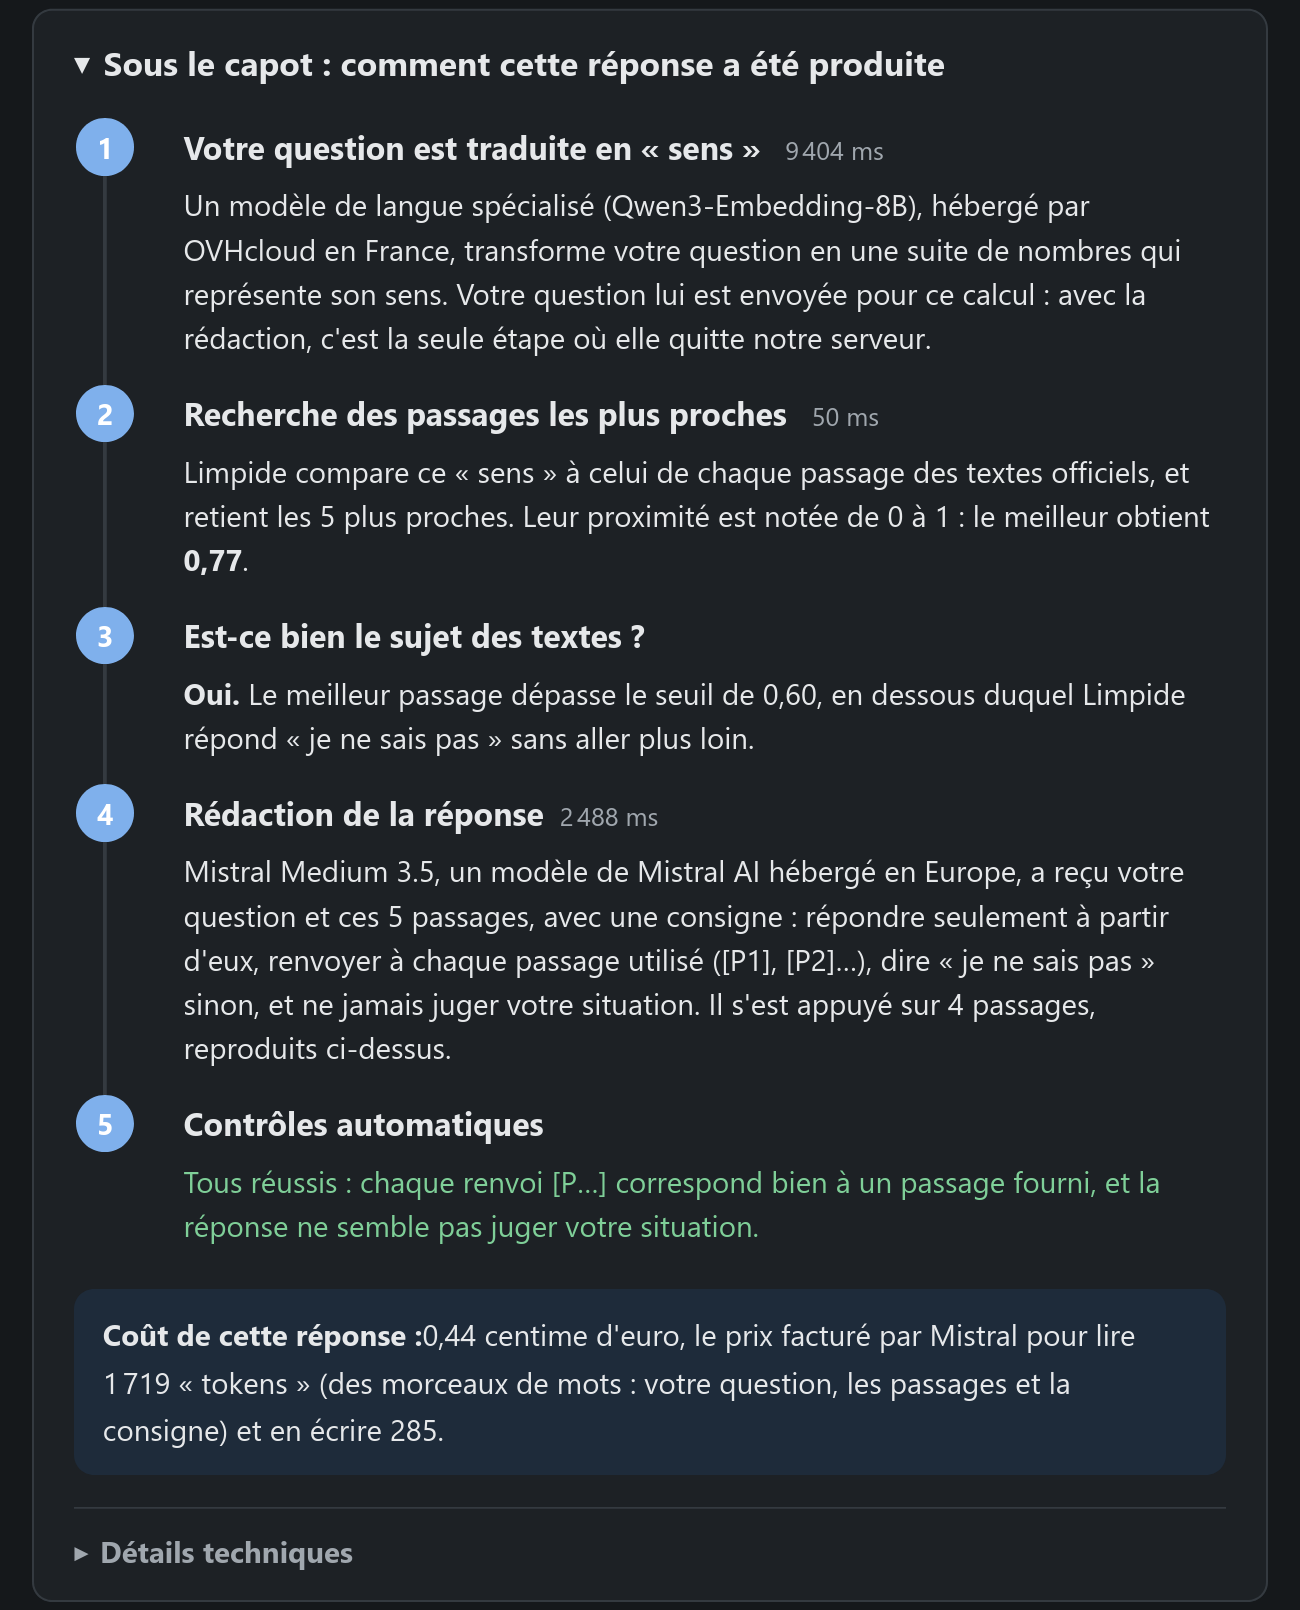
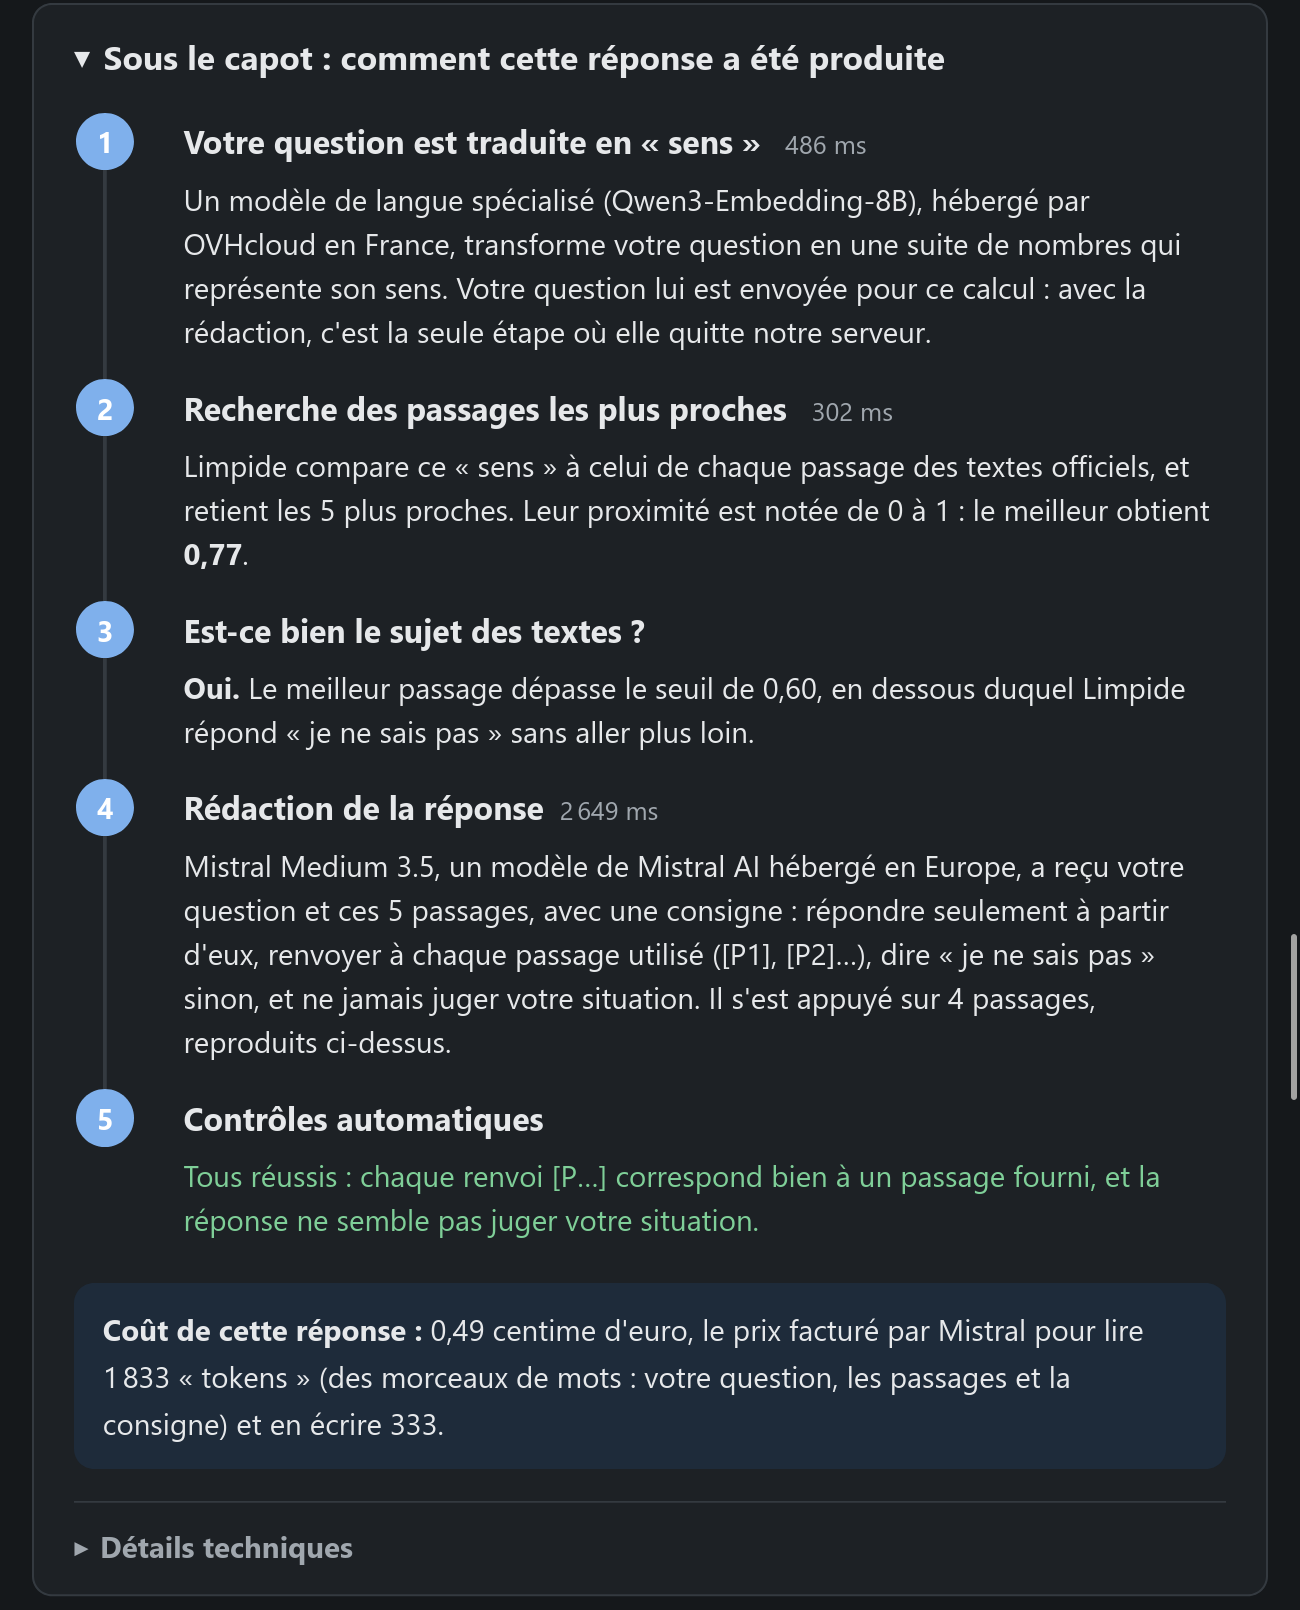
Coût par ingestion : tokens et euros de la vectorisation, dans le message du DAG (S8, session 3)
embed additionne les tokens rendus par l'API d'embeddings pour chaque lot et écrit tokens et costEur dans son
résumé JSON (tarifs Embedding:PricesPerMillion : Qwen3-Embedding-8B 0,10 € par million, bge-m3 0 ; tokens non
rendus ou tarif absent : coût inconnu, jamais deviné). Le message de succès du DAG ajoute une ligne
« Vectorisation » quand des passages ont été vectorisés. Vérifié sur le poste : 3 vecteurs recalculés par
OVHcloud, 1 235 tokens, 0,000124 €.

docs/finops.md : coût mesuré à chaque ingestion, revectorisation complète ≈ 0,036 € (3,26 caractères par token),
valeurs exactes d'EcoLogits. Capture « Sous le capot » refaite sur le site déployé (Alexandre).

diff --git a/src/Limpide.Ingestion/Embed/EmbedCommand.cs b/src/Limpide.Ingestion/Embed/EmbedCommand.cs
@@ -28,6 +28,8 @@ public sealed class EmbedCommand(
         summary.Add("embedded", 0);
         if (total == 0)
         {
+            summary.Add("tokens", 0);
+            summary.Measure("costEur", 0m);
             logger.LogInformation("Aucun passage à vectoriser ({Model})", options.Label);
             await MarkReadyAsync(ct);
             return 0;
@@ -39,6 +41,8 @@ public sealed class EmbedCommand(
         var overall = Stopwatch.StartNew();
         TimeSpan? firstBatch = null;
         int done = 0, characters = 0;
+        // Tokens facturés, d'après l'usage rendu par l'API ; null dès qu'un lot ne le donne pas (coût inconnu).
+        long? tokens = 0;
 
         while (await store.NextBatchAsync(options.Label, options.BatchSize, ct) is { Count: > 0 } batch)
         {
@@ -57,16 +61,23 @@ public sealed class EmbedCommand(
             done += batch.Count;
             summary.Add("embedded", batch.Count);
             characters += batch.Sum(c => c.Content.Length);
+            tokens += embeddings.Usage?.InputTokenCount;
             logger.LogInformation("{Done}/{Total} — lot de {Count} en {Seconds:F1} s", done, total, batch.Count, watch.Elapsed.TotalSeconds);
         }
+
+        var cost = options.Cost(tokens);
+        if (tokens is { } counted)
+            summary.Add("tokens", (int)counted);
+        summary.Measure("costEur", cost);
 
         // Le premier lot inclut le chargement du modèle en mémoire : on le sort de la moyenne.
         var elapsed = overall.Elapsed;
         var steady = done > options.BatchSize ? (elapsed - firstBatch!.Value) / (done - options.BatchSize) : elapsed / done;
         logger.LogInformation(
-            "Vectorisation terminée : {Done} passages, {Characters:N0} caractères, {Total:F1} s au total "
+            "Vectorisation terminée : {Done} passages, {Characters:N0} caractères, {Tokens} tokens, {Cost} €, {Total:F1} s au total "
             + "(premier lot, avec chargement du modèle : {First:F1} s), {PerChunk:F0} ms par passage en régime établi",
-            done, characters, elapsed.TotalSeconds, firstBatch!.Value.TotalSeconds, steady.TotalMilliseconds);
+            done, characters, tokens?.ToString() ?? "? (non rendus par l'API)", cost?.ToString("0.000000") ?? "inconnu",
+            elapsed.TotalSeconds, firstBatch!.Value.TotalSeconds, steady.TotalMilliseconds);
 
         await MarkReadyAsync(ct);
         return 0;

diff --git a/pipelines/airflow/dags/ingestion.py b/pipelines/airflow/dags/ingestion.py
@@ -106,7 +106,8 @@ def keep_failure_cause(context: Context) -> None:
 
 
 def success_message(summaries: dict[str, dict[str, Any]], run_id: str, started: datetime.datetime | None) -> str:
-    """Une ligne de bilan : documents vérifiés, nouvelles versions, versions écartées et publiées, durée."""
+    """Une ligne de bilan : documents vérifiés, nouvelles versions, versions écartées et publiées, durée ;
+    coût de la vectorisation quand embed a calculé des vecteurs (S8, session 3)."""
     fetch = summaries.get("fetch", {})
     # Toutes les issues de fetch sont des compteurs (inchangé, nouvelle version...), sauf le code de sortie.
     checked = sum(v for k, v in fetch.items() if isinstance(v, int) and k != "exitCode")
@@ -118,9 +119,17 @@ def success_message(summaries: dict[str, dict[str, Any]], run_id: str, started: 
         seconds = int((datetime.datetime.now(datetime.UTC) - started).total_seconds())
         duration = f" en {seconds // 60} min {seconds % 60:02d} s"
     corpus = f"**{published} version(s) publiée(s)**" if published else "corpus de la démo inchangé"
-    return (f"✅ **Limpide : ingestion réussie** ({run_id}){duration}\n"
-            f"{checked} document(s) vérifié(s), {collected} nouvelle(s) version(s) collectée(s), "
-            f"{discarded} écartée(s) (texte identique) ; {corpus}.")
+    message = (f"✅ **Limpide : ingestion réussie** ({run_id}){duration}\n"
+               f"{checked} document(s) vérifié(s), {collected} nouvelle(s) version(s) collectée(s), "
+               f"{discarded} écartée(s) (texte identique) ; {corpus}.")
+    embed = summaries.get("embed", {})
+    if embed.get("embedded", 0):
+        # costEur : null quand l'API ne rend pas les tokens ou que le tarif du modèle manque (jamais deviné).
+        cost = embed.get("costEur")
+        cost_text = "coût inconnu" if cost is None else f"≈ {cost:.4f} €".replace(".", ",")
+        tokens = f"{embed['tokens']:,} tokens".replace(",", " ") if "tokens" in embed else "tokens non rendus"
+        message += f"\nVectorisation : {embed['embedded']} passage(s), {tokens}, {cost_text}."
+    return message
 
 
 def send_discord_alert(message: str) -> None:

diff --git a/src/Limpide.Ingestion/Cli/CommandSummary.cs b/src/Limpide.Ingestion/Cli/CommandSummary.cs
@@ -10,11 +10,15 @@ public sealed class CommandSummary(string command)
 {
     private readonly OrderedDictionary<string, int> counts = [];
     private readonly OrderedDictionary<string, List<string>> details = [];
+    private readonly OrderedDictionary<string, decimal?> measures = [];
 
-    public bool IsEmpty => counts.Count == 0 && details.Count == 0;
+    public bool IsEmpty => counts.Count == 0 && details.Count == 0 && measures.Count == 0;
 
     public void Add(string key, int count = 1) =>
         counts[key] = counts.GetValueOrDefault(key) + count;
+
+    /// <summary>Mesure non entière (ex. un coût en euros) ; null : inconnue, écrite telle quelle.</summary>
+    public void Measure(string key, decimal? value) => measures[key] = value;
 
     /// <summary>Précision à reprendre dans l'alerte (ex. la version mise en quarantaine et pourquoi).</summary>
     public void Detail(string key, string value)
@@ -29,6 +33,8 @@ public sealed class CommandSummary(string command)
         var fields = new OrderedDictionary<string, object> { ["command"] = command, ["exitCode"] = exitCode };
         foreach (var (key, count) in counts)
             fields[key] = count;
+        foreach (var (key, value) in measures)
+            fields[key] = value!;
         foreach (var (key, values) in details)
             fields[key] = values;
         // Accents lisibles dans les logs et l'alerte (pas de \u00e9).

diff --git a/src/Limpide.Infrastructure/EmbeddingOptions.cs b/src/Limpide.Infrastructure/EmbeddingOptions.cs
@@ -41,6 +41,18 @@ public sealed class EmbeddingOptions
     public string QueryText(string question) =>
         QueryInstruction is { Length: > 0 } instruction ? $"{instruction}{question}" : question;
 
+    /// <summary>
+    /// Tarif par modèle, en euros par million de tokens (coût d'une ingestion, S8). Modèle absent : coût « inconnu »,
+    /// jamais deviné ; 0 pour un modèle local.
+    /// </summary>
+    public Dictionary<string, decimal> PricesPerMillion { get; set; } = [];
+
+    /// <summary>Coût en euros de <paramref name="tokens"/> tokens ; null si le tarif ou le nombre de tokens manque.</summary>
+    public decimal? Cost(long? tokens) =>
+        PricesPerMillion.TryGetValue(Model, out var price)
+            ? price == 0 ? 0m : tokens * price / 1_000_000m
+            : null;
+
     /// <summary>Passages envoyés par appel ; chaque lot est enregistré dès qu'il est calculé.</summary>
     public int BatchSize { get; set; } = 16;
 

diff --git a/docs/finops.md b/docs/finops.md
@@ -46,7 +46,8 @@ exécutions l'ont sautée (`deploy/evaluation-requise.sh`).
 | Vectorisation d'une question | ≈ 0,0003 centime | ≈ 30 tokens à ≈ 0,10 € par million |
 | Évaluation complète en CI | ≈ 0,26 € | 50 questions : 44 rédactions (6 arrêtées par le seuil) et 34 jugements |
 | Ingestion hebdomadaire sans changement | 0 € | même empreinte du contenu brut : rien n'est revectorisé |
-| Revectorisation complète du corpus | ≈ 0,03 € | 1 130 passages, ≈ 1,18 million de caractères avec les titres, ≈ 320 000 tokens |
+| Ingestion avec nouvelles versions | mesuré à chaque exécution | `embed` additionne les tokens rendus par l'API (≈ 0,0001 € pour 3 passages, 1 235 tokens) ; montant dans le message Discord du DAG |
+| Revectorisation complète du corpus | ≈ 0,036 € | 1 130 passages, ≈ 1,18 million de caractères avec les titres ; 3,26 caractères par token mesurés (3 passages : 4 023 caractères, titres compris, pour 1 235 tokens), soit ≈ 363 000 tokens |
 
 Le coût estimé par l'application se vérifie contre la facture : en production, les 5 réponses du 19 et du 20 octobre
 (9 051 tokens lus, 1 272 écrits) donnent exactement le montant enregistré dans `answer_log` ; la page Usage de
@@ -106,13 +107,13 @@ question, et Limpide répond « je ne sais pas » sans appeler le modèle. L'éc
 
 | Mix électrique supposé | Énergie | Gaz à effet de serre | dont fabrication du matériel | Eau |
 |---|---|---|---|---|
-| France | 0,14 Wh | 0,007 g CO₂e | 0,002 g | 0,5 mL |
-| Allemagne | 0,14 Wh | 0,05 g CO₂e | 0,002 g | 0,3 mL |
-| Moyenne mondiale | 0,14 Wh | 0,07 g CO₂e | 0,002 g | 0,6 mL |
+| France | 0,14 Wh | 0,0074 g CO₂e | 0,0016 g | 0,52 mL |
+| Allemagne | 0,14 Wh | 0,0475 g CO₂e | 0,0016 g | 0,28 mL |
+| Moyenne mondiale | 0,14 Wh | 0,0654 g CO₂e | 0,0016 g | 0,55 mL |
 
 **À comparer avec l'analyse de cycle de vie publiée par Mistral** (juillet 2025, avec Carbone 4 et l'ADEME, relue
 par Resilio et Hubblo) : 1,14 g CO₂e et 45 mL d'eau pour une réponse de 400 tokens de Mistral Large 2 dans Le Chat.
-L'écart (×17 à ×150) tient au modèle (Large 2, 123 milliards de paramètres, contre une architecture non publiée pour
+L'écart (×17 à ×154 : 1,14 g contre 0,0654 et 0,0074 g) tient au modèle (Large 2, 123 milliards de paramètres, contre une architecture non publiée pour
 Medium 3.5), au périmètre (analyse complète de Mistral contre modèle d'EcoLogits limité à l'inférence et au
 matériel) et au mix électrique. **L'enseignement est là** : l'ordre de grandeur dépend surtout des hypothèses, et ni
 la taille de Medium 3.5 ni la localisation de ses serveurs ne sont publiées.

diff --git a/docs/plan/semaine-08.md b/docs/plan/semaine-08.md
@@ -365,6 +365,14 @@ qui y mène.
 - [x] **`docs/finops.md`** : coût mensuel réel, répartition Mistral, coûts unitaires (corpus : 1 130 passages,
   ≈ 320 000 tokens, revectorisation complète ≈ 0,03 €), garde-fous de la dépense, projection (≈ 6,7 € à ≈ 23 € par
   mois, ≈ 25 € au plus sous les plafonds), seuil, énergie, leviers, limites. Lien depuis le README.
+- [x] **Coût par ingestion** (point 1 du plan, jusque-là seulement estimé) : `embed` additionne les tokens rendus
+  par l'API pour chaque lot et écrit `tokens` et `costEur` dans son résumé (tarifs `Embedding:PricesPerMillion`,
+  0,10 € par million pour Qwen3-Embedding-8B, 0 pour bge-m3 ; tokens non rendus ou tarif absent : coût inconnu) ; le
+  message Discord du DAG ajoute « Vectorisation : N passage(s), N tokens, ≈ X € ». Vérifié sur le poste : 3 vecteurs
+  supprimés puis recalculés par OVHcloud, 1 235 tokens pour 4 023 caractères titres compris, 0,000124 € (3,26
+  caractères par token : revectorisation complète ≈ 363 000 tokens, ≈ 0,036 €). Bilan carbone d'OVHcloud : les VPS ne figurent pas dans la liste des services couverts.
+- [x] Capture « Sous le capot » refaite sur le site déployé (Alexandre) : espace après « Coût de cette réponse : »,
+  vectorisation à 486 ms.
 - **Correction** (relecture de `docs/finops.md`) : une évaluation complète coûte ≈ 0,26 € pour 78 requêtes (rapport
   `2026-10-18-1925` : 44 rédactions, 34 jugements ; ADR-016), et non ≈ 0,20 € pour 65 : les 388 requêtes de la CI
   depuis le 19 en font ≈ 5, pas 6 (une exécution longue n'était pas une évaluation complète).

diff --git a/.claude/rules/airflow.md b/.claude/rules/airflow.md
@@ -10,8 +10,8 @@ Alexandre ne connaissait pas Airflow avant la S4 : concepts d'abord. Détail et 
 
 - Airflow 3.3.1. DAG `ingestion` : une tâche `DockerOperator` par commande .NET (`fetch`, `extract`, `chunk`,
   `validate`, `embed`, `publish`), **aucun code métier en Python** ; étapes en `all_done`, tâche `bilan` : **un message
-  Discord par exécution** (succès : bilan court ; quarantaine : sans faire échouer l'exécution ; échec : avec la
-  cause). Pas de message le lundi = pas d'exécution : `airflow dags list-runs ingestion` dans l'ordonnanceur.
+  Discord par exécution** (succès : bilan court, avec le coût de la vectorisation s'il y en a eu ;
+  quarantaine : sans faire échouer l'exécution ; échec : avec la cause). Pas de message le lundi = pas d'exécution : `airflow dags list-runs ingestion` dans l'ordonnanceur.
 - Chaque commande écrit un résumé JSON en dernière ligne (`CommandSummary`), repris en XCom.
 - Local : compose officiel + `docker-compose.override.yaml` (socket Docker pour le worker seul : choix de
   développement ; `AIRFLOW_VAR_*`, webhook Discord dans `pipelines/airflow/.env`). Réseau `limpide_default`.
